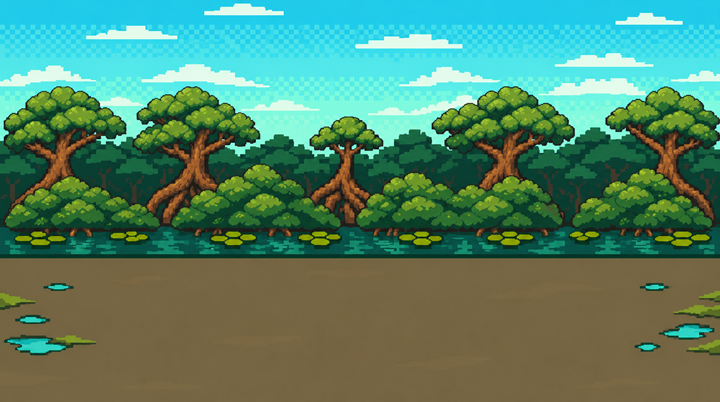
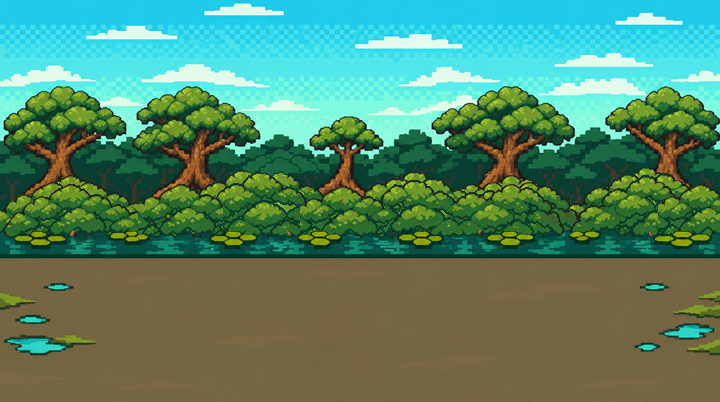
이미지: 물약 8종 확정, 늪지 배경 뿌리 마저 가림

Changed region(s): [[0.0, 0.3881, 1.0, 0.597]]

diff --git a/개발일지/2026-11-26/이미지.md b/개발일지/2026-11-26/이미지.md
@@ -261,3 +261,7 @@
 ## 늪지 배경 큰 덤불·도트화 · 물약 8종 시안 (확인 대기)
 - 배경: 사용자 "개수로 채우지말고 큰 것들로. 그리고 도트 느낌 잘 안 난다.." → 작은 나무를 큰 잎 덩어리 4개로 바꾸고 굵은 픽셀 도트로 다시 그림. 1차는 덤불이 납작하고 똑같아 한 번 더 다듬음. `img/codex/swamp/swamp3.png`(전 것 `swamp3_v4.png`). 덤불 사이로 뿌리가 조금 보임.
 - 물약: 병 모양 구분표에 사용자 "ㅇㅋ". 생명은 보여 준 그대로, 7개는 코덱스 시안이 24칸보다 커서 줄을 덜면 문양이 뭉개짐 → 24칸에 병 모양과 스티커 문양을 직접 찍음. `img/codex/potion/{steel,thorn,energy,life,swift,shadow,wolf,swamp}24.png`, 모음 `all.png`. `img/p/`에는 아직 안 넣음.
+
+## 물약 8종 확정 ⭐ · 늪지 배경 뿌리 마저 가림 (배경 확인 대기)
+- 물약: 사용자 "물약은 확인했어 컴펌완료" → `img/p/pot_{steel,thorn,energy,life,swift,shadow,wolf,swamp}.png`(24×24, 데이터 id p_* 와 같은 이름). UI에 알림.
+- 배경: 사용자 "숲더미를 좀더 내려서 뿌리가 안보이게 해줘". 덤불만 내리면 위쪽 큰 뿌리가 더 드러나서, 덤불은 두고 아래·옆으로 덧대고 사이에 작은 덩어리를 얹음. 남은 뿌리 조각은 물색으로 지움. `img/codex/swamp/swamp3.png`(전 것 `swamp3_v6.png`), 전후 `low_compare.png`.
